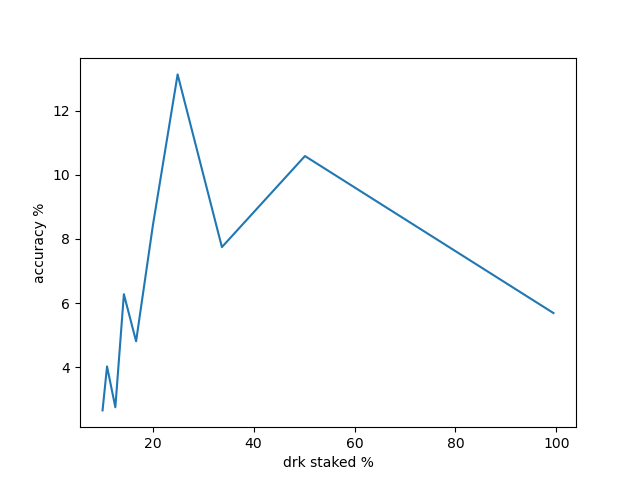
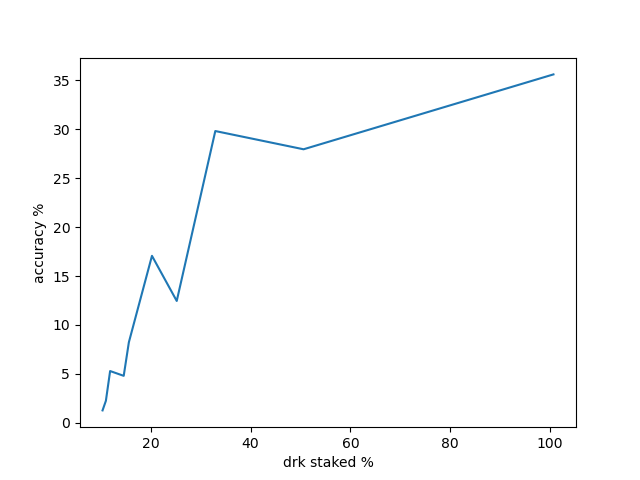
[research/lotterysim] add finalization resync reward randomly

diff --git a/script/research/lotterysim/core/lottery.py b/script/research/lotterysim/core/lottery.py
@@ -16,6 +16,7 @@ class DarkfiTable:
         self.primary_pid = PrimaryDiscretePID(kp=r_kp, ki=r_ki, kd=r_kd) if controller_type==CONTROLLER_TYPE_DISCRETE else PrimaryTakahashiPID(kc=kc, ti=ti, td=td, ts=ts)
         self.debug=debug
         self.rewards = []
+        self.winners = []
 
     def add_darkie(self, darkie):
         self.darkies+=[darkie]
@@ -39,7 +40,8 @@ class DarkfiTable:
 
             if count%EPOCH_LENGTH == 0:
                 acc = self.secondary_pid.acc_percentage()
-                reward = self.primary_pid.pid_clipped(acc, debug)
+                #staked_ratio = self.avg_stake_ratio()
+                reward = self.primary_pid.pid_clipped(float(acc), debug)
                 self.rewards += [reward]
 
             #note! thread overhead is 10X slower than sequential node execution!
@@ -51,16 +53,38 @@ class DarkfiTable:
 
             #print('reward: {}'.format(rewards[-1]))
             for i in range(len(self.darkies)):
-                winners += self.darkies[i].won
-                self.darkies[i].update_stake(self.rewards[-1])
+                winners += self.darkies[i].won_hist[-1]
                 ###
-
+            self.winners +=[winners]
             feedback = winners
-            if winners==1:
+            if self.winners[-1]==1:
+                for i in range(len(self.darkies)):
+                    if self.darkies[i].won_hist[-1]:
+                        self.darkies[i].update_stake(self.rewards[-1])
+                        break
+                # resolve finalization
                 if count >= ERC20DRK:
                     self.Sigma += 1
-                for i in range(len(self.darkies)):
-                    self.darkies[i].finalize_stake()
+                # resync nodes
+                merge_length = 0
+                for i in reversed(self.winners[:-1]):
+                    if i !=1:
+                        merge_length+=1
+                    else:
+                        break
+                for i in range(merge_length):
+                    resync_slot_id = count-(i+1)
+                    resync_reward_id = int((resync_slot_id)/EPOCH_LENGTH)
+                    resync_reward = self.rewards[resync_reward_id]
+                    # resyncing depends on the random branch chosen,
+                    # it's simulated by choosing first wining node
+                    darkie_winning_idx = 0
+                    for darkie_idx in range(len(self.darkies)):
+                        if self.darkies[darkie_idx].won_hist[resync_slot_id]:
+                            darkie_winning_idx = darkie_idx
+                            break
+                    self.darkies[darkie_winning_idx].resync_stake(resync_reward)
+
             count+=1
         self.end_time=time.time()
         avg_reward = sum(self.rewards)/len(self.rewards)

diff --git a/script/research/lotterysim/core/darkie.py b/script/research/lotterysim/core/darkie.py
@@ -6,17 +6,16 @@ class Darkie():
         self.vesting = [0] + vesting
         self.stake = (Num(airdrop) if hp else airdrop)
         self.initial_stake = [self.stake] # for debugging purpose
-        self.finalized_stake = (Num(airdrop) if hp else airdrop)
         self.Sigma = None
         self.feedback = None
         self.f = None
-        self.won=False
         self.epoch_len=epoch_len # epoch length during which the stake is static
         self.strategy = strategy
         self.slot = 0
+        self.won_hist = [] # winning history boolean
 
     def clone(self):
-        return Darkie(self.finalized_stake)
+        return Darkie(self.stake)
 
     def apy_scaled_to_runningtime(self, rewards):
         avg_apy = 0
@@ -65,9 +64,10 @@ class Darkie():
             # staked ratio is added in strategy
             self.strategy.set_ratio(self.slot, apr)
             # epoch stake is added
-            self.initial_stake +=[self.finalized_stake]
-        T = target(self.f, self.strategy.staked_value(self.finalized_stake))
-        self.won = lottery(T, hp)
+            self.initial_stake +=[self.stake]
+        T = target(self.f, self.strategy.staked_value(self.stake))
+        won = lottery(T, hp)
+        self.won_hist += [won]
 
     def update_vesting(self):
         if self.slot >= len(self.vesting):
@@ -81,28 +81,20 @@ class Darkie():
         return vesting_value
 
     def update_stake(self, reward):
-        if self.won:
+        if self.won_hist[-1]:
             self.stake+=reward
             #print('updating stake, stake: {}, last: {}'.format(self.stake, self.initial_stake[-1]))
 
-    def finalize_stake(self):
+    def resync_stake(self, reward):
         '''
-        finalize stake if there is single leader
+        add resync stake
         '''
-        if self.won:
-            #print('finalizing stake')
-            self.finalized_stake = self.stake
-        #else:
-            #self.stake = self.finalized_stake
+        self.stake += reward
 
-    def log_state_gain(self):
-        # darkie started with self.initial_stake, self.initial_stake/self.Sigma percent
-        # over the course of self.slot
-        # current stake is self.stake, self.stake/self.Sigma percent
-        pass
 
     def write(self, idx):
         with open('log/darkie'+str(idx)+'.log', 'w+') as f:
             buf = 'initial stake:'+','.join([str(i) for i in self.initial_stake])
             buf += '\r\n'
             buf += 'staked ratio:'+','.join([str(i) for i in self.strategy.staked_tokens_ratio])
+            f.write(buf)

diff --git a/script/research/lotterysim/acc_vs_staked_ratio.py b/script/research/lotterysim/acc_vs_staked_ratio.py
@@ -7,7 +7,7 @@ os.system("rm log/f_output.hist; rm log/f_feedback.hist")
 
 RUNNING_TIME = int(input("running time:"))
 ERC20DRK=2.1*10**9
-NODES=1000
+NODES=100
 plot = []
 EXPS=10
 for portion in range(1,11):
@@ -15,7 +15,7 @@ for portion in range(1,11):
     for _ in range(EXPS):
         darkies = []
         egalitarian = ERC20DRK/NODES
-        darkies += [ Darkie(random.gauss(egalitarian, egalitarian*0.1), commit=False) for id in range(int(NODES/portion)) ]
+        darkies += [ Darkie(random.gauss(egalitarian, egalitarian*0.1), commit=False, strategy=Hodler(EPOCH_LENGTH)) for id in range(int(NODES/portion)) ]
         #darkies += [Darkie() for _ in range(NODES*2)]
         airdrop = ERC20DRK
         effective_airdrop  = 0
@@ -23,7 +23,7 @@ for portion in range(1,11):
             effective_airdrop+=darkie.stake
         stake_portion = effective_airdrop/airdrop*100
         print("network airdrop: {}, staked token: {}/{}% on {} nodes".format(airdrop, effective_airdrop, stake_portion, len(darkies)))
-        dt = DarkfiTable(airdrop, RUNNING_TIME, CONTROLLER_TYPE_DISCRETE, kp=0.005999999999989028, ki=-0.005999999985257798, kd=0.01299999999999478)
+        dt = DarkfiTable(airdrop, RUNNING_TIME, CONTROLLER_TYPE_DISCRETE, kp=0.005999999999989028, ki=-0.005999999985257798, kd=0.01299999999999478, r_kp=0.051, r_ki=-0.3229, r_kd=-0.008)
         for darkie in darkies:
             dt.add_darkie(darkie)
         acc, apy, reward, staked_ratio, apr = dt.background(rand_running_time=False)

diff --git a/script/research/lotterysim/primary_discrete_auto_crawler.py b/script/research/lotterysim/primary_discrete_auto_crawler.py
@@ -8,14 +8,14 @@ import os
 
 AVG_LEN = 5
 
-KP_STEP=0.5
-KP_SEARCH=0.14
+KP_STEP=0.3
+KP_SEARCH=-0.25#0.2#-0.4(10nodes,100RT,38%acc)
 
-KI_STEP=0.5
-KI_SEARCH=-0.5
+KI_STEP=0.3
+KI_SEARCH=-0.71#-0.36#-0.25(10nodes,100RT,38%acc)
 
-KD_STEP=0.5
-KD_SEARCH=-0.5
+KD_STEP=0.3
+KD_SEARCH=1#0.48#-0.29(10nodes,100RT,38%acc)
 
 RUNNING_TIME=1000
 NODES = 100
@@ -80,7 +80,7 @@ def multi_trial_exp(kp, ki, kd, distribution = [], hp=True):
     if avg_apr > 0:
         gain = (kp, ki, kd)
         acc_gain = (avg_apr, gain)
-        if avg_acc > highest_acc and avg_apr > highest_apr and avg_staked > highest_staked:
+        if avg_acc > highest_acc:
             new_record = True
             highest_apr = avg_apr
             highest_acc = avg_acc
@@ -89,7 +89,6 @@ def multi_trial_exp(kp, ki, kd, distribution = [], hp=True):
             with open('log'+os.sep+"highest_gain.txt", 'w') as f:
                 f.write(buff)
     return buff, new_record
-
 
 def crawler(crawl, range_multiplier, step=0.1):
     start = None
@@ -107,7 +106,6 @@ def crawler(crawl, range_multiplier, step=0.1):
         range_start -= SHIFTING
         range_end += SHIFTING
         step /= 10
-
 
     while True:
         try:

diff --git a/script/research/lotterysim/discrete_instance.py b/script/research/lotterysim/discrete_instance.py
@@ -23,7 +23,7 @@ if __name__ == "__main__":
     for darkie in darkies:
         effective_airdrop+=darkie.stake
     print("network airdrop: {}, staked token: {}/{}% on {} nodes".format(airdrop, effective_airdrop, effective_airdrop/airdrop*100, len(darkies)))
-    dt = DarkfiTable(airdrop, RUNNING_TIME, CONTROLLER_TYPE_DISCRETE, kp=-0.010399999999938556, ki=-0.0365999996461878, kd=0.03840000000000491,  r_kp=-0.1345, r_ki=-0.5, r_kd=-0.5)
+    dt = DarkfiTable(airdrop, RUNNING_TIME, CONTROLLER_TYPE_DISCRETE, kp=-0.010399999999938556, ki=-0.0365999996461878, kd=0.03840000000000491,  r_kp=0.17, r_ki=-0.09, r_kd=1.1)
     for darkie in darkies:
         dt.add_darkie(darkie)
     acc, avg_apy, avg_reward, stake_ratio, avg_apr = dt.background(rand_running_time=False)

diff --git a/script/research/lotterysim/core/strategy.py b/script/research/lotterysim/core/strategy.py
@@ -14,6 +14,15 @@ class Strategy(object):
     def staked_value(self, stake):
         return Num(self.staked_tokens_ratio[-1])*Num(stake)
 
+class Hodler(Strategy):
+    def __init__(self, epoch_len):
+        super().__init__(epoch_len)
+        self.type = 'holder'
+
+    def set_ratio(self, slot, apy):
+        if slot%self.epoch_len==0:
+            self.staked_tokens_ratio += [1]
+
 class RandomStrategy(Strategy):
     def __init__(self, epoch_len):
         super().__init__(epoch_len)

diff --git a/script/research/lotterysim/core/constants.py b/script/research/lotterysim/core/constants.py
@@ -12,14 +12,14 @@ F_MIN = 0.0001
 F_MAX = 0.9999
 
 REWARD_MIN = 0
-REWARD_MAX = 100
+REWARD_MAX = 10
 
 SLOT = 90
 ONE_YEAR = Num(365.25*24*60*60/SLOT)
 
-TARGET_APR = Num(1)
+TARGET_APR = Num(0.1)
 
-PRIMARY_REWARD_TARGET = 0.5 # ratio of staked tokens
+PRIMARY_REWARD_TARGET = 0.33 # ratio of staked tokens
 SECONDARY_LEAD_TARGET = 1 #number of lead per slot
 
 EPSILON = 1
